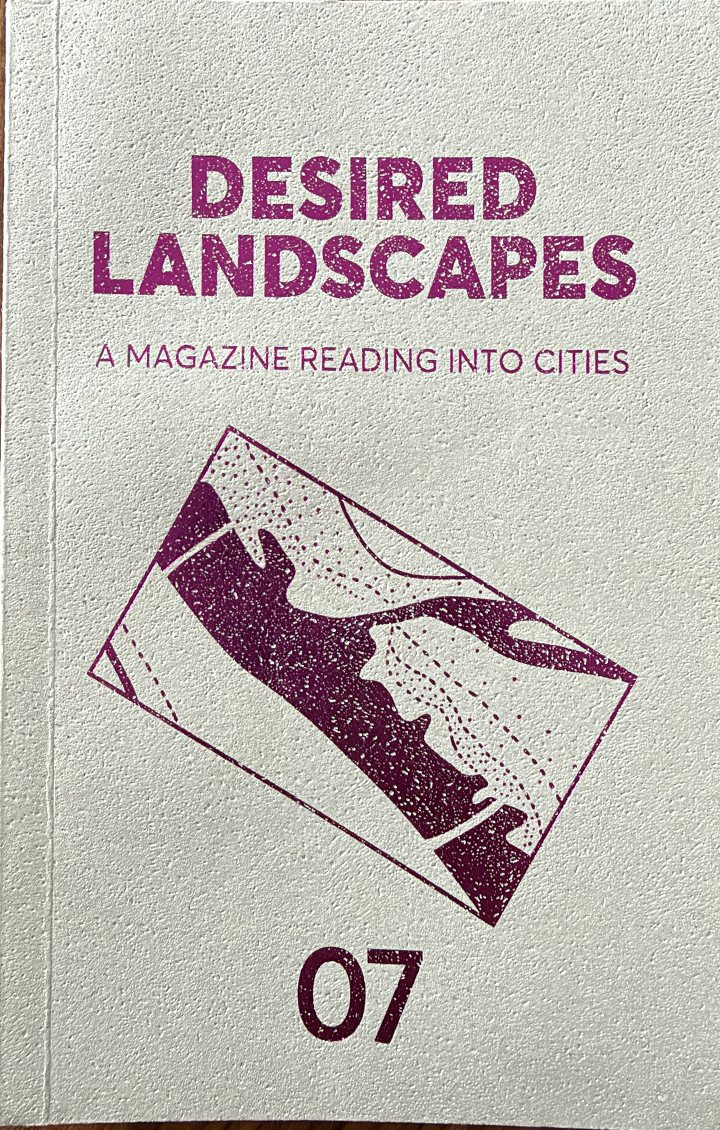
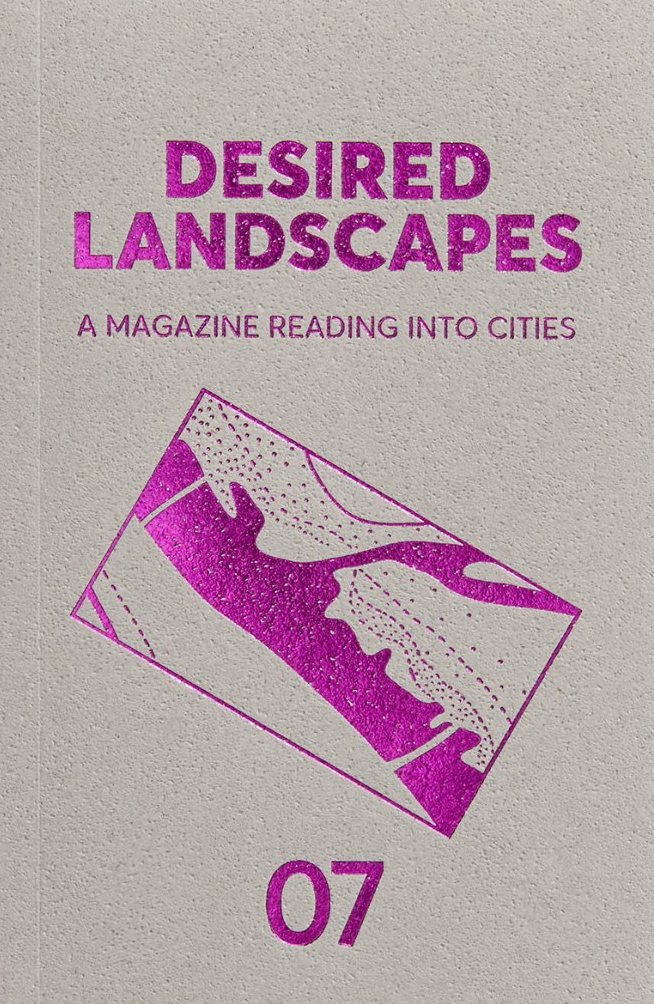
Press: new Desired Landscapes images (cover, open issue with fold-out, Athens promo card)
Claude-Session: https://claude.ai/code/session_01VvB7F18VBnVZv6asFsbdLc

diff --git a/index.html b/index.html
@@ -622,12 +622,14 @@ footer .logo .logo-mark{height:52px}
 @media (max-width:820px){.foldview .fold-body{flex-direction:column;align-items:center;justify-content:flex-start}.foldview .fold-body img{max-height:none;max-width:100%}}
 
 /* Desired Landscapes: cover in front and larger */
-.feature.flip .clip.c1{left:24%;top:2%;height:92%;transform:rotate(-2deg);z-index:3}
-.feature.flip .clip.c2{left:2%;top:12%;height:72%;transform:rotate(-7deg);z-index:2}
-.feature.flip .clip.c3{left:62%;top:14%;height:72%;transform:rotate(6deg);z-index:1}
-.feature.flip .clips:hover .c1{transform:rotate(-1deg) translateY(-6px)}
-.feature.flip .clips:hover .c2{transform:rotate(-9deg) translateX(-10px)}
-.feature.flip .clips:hover .c3{transform:rotate(8deg) translateX(10px)}
+.feature.flip .clips{height:clamp(440px,46vw,580px)}
+.feature.flip .clip.c1{left:6%;top:4%;height:56%;transform:rotate(-4deg);z-index:3}
+.feature.flip .clip.c2{left:3%;top:auto;bottom:3%;height:auto;width:86%;transform:rotate(-2deg);z-index:1}
+.feature.flip .clip.c3{left:50%;top:6%;height:50%;transform:rotate(5deg);z-index:2}
+@media (max-width:820px){.feature.flip .clips{height:min(118vw,560px);max-height:none}}
+.feature.flip .clips:hover .c1{transform:rotate(-5deg) translateY(-6px)}
+.feature.flip .clips:hover .c2{transform:rotate(-1deg) translateY(6px)}
+.feature.flip .clips:hover .c3{transform:rotate(7deg) translateX(8px)}
 
 /* About: photos from twenty years ago */
 .about-pics{display:flex;flex-direction:column;gap:30px;position:relative;z-index:41}
@@ -889,9 +891,9 @@ blockquote p:first-child,.about-quote p:first-child,.feature-text blockquote p:f
   </div>
   <div class="feature flip">
     <div class="clips" aria-hidden="true">
-      <img class="clip c1" src="img/press/dl-cover.jpg" alt="" width="720" height="1130" loading="lazy">
-      <img class="clip c2 zoomable" src="img/press/dl-grid.jpg" alt="" width="840" height="1120" loading="lazy" data-open="foldout">
-      <img class="clip c3" src="img/press/dl-text.jpg" alt="" width="720" height="1240" loading="lazy">
+      <img class="clip c1" src="img/press/dl-cover.jpg" alt="" width="654" height="1004" loading="lazy">
+      <img class="clip c2 zoomable" src="img/press/dl-spread.jpg" alt="" width="1400" height="972" loading="lazy" data-open="foldout">
+      <img class="clip c3" src="img/press/dl-promo.jpg" alt="" width="960" height="1200" loading="lazy">
     </div>
     <div class="feature-text">
       <p class="f-outlet">Desired Landscapes · A magazine reading into cities</p>
@@ -903,7 +905,7 @@ blockquote p:first-child,.about-quote p:first-child,.feature-text blockquote p:f
       <p class="f-date">Issue 07 · City's Image · p. 107 · print</p>
       <button type="button" class="stk-shake fold-btn" data-open="foldout">See the fold-out ↗</button>
     </div>
-    <span class="sr-only">Photos of the magazine: the cover of Desired Landscapes issue 07, the fold-out grid of twelve shopfront photographs by Steven A.J. Beijer, and the essay page.</span>
+    <span class="sr-only">Photos of the magazine: the cover of Desired Landscapes issue 07, the issue open at the Fading Athens essay with the fold-out of twelve shopfront photographs by Steven A.J. Beijer, and the magazine's announcement card reading Athens, photos by Steven A.J. Beijer.</span>
   </div>
   <div class="quotes">
     <blockquote>
